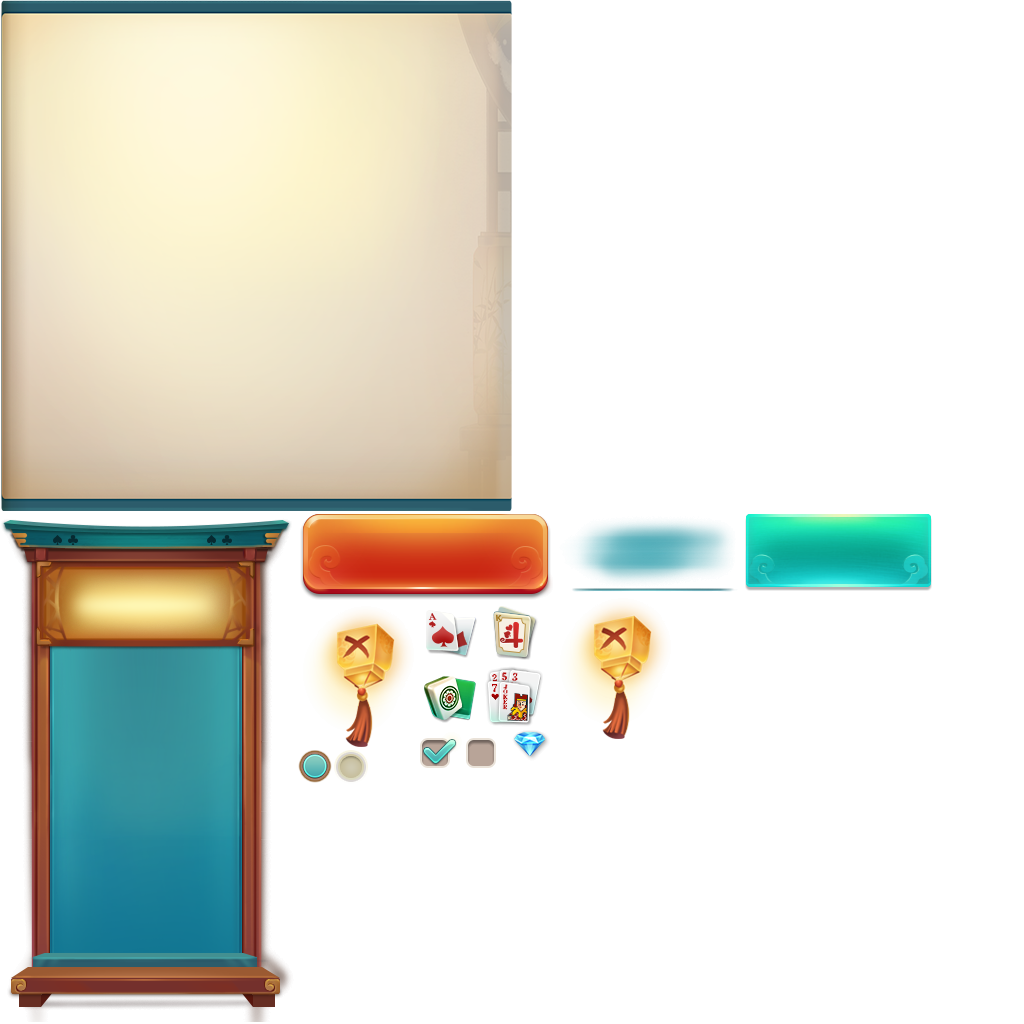
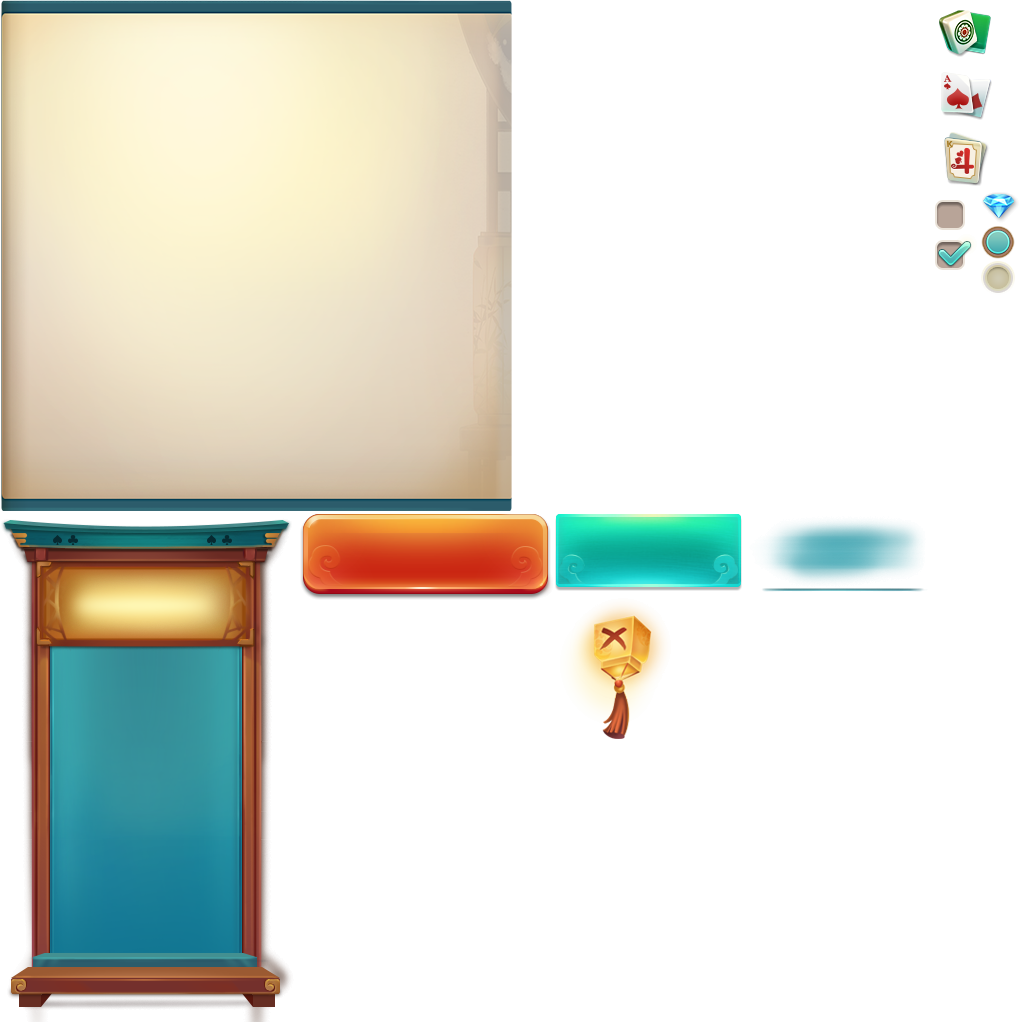
优化drawcall， 从71减少到53

Changed region(s): [[0.5312, 0.5, 0.9375, 0.5938], [0.2812, 0.5938, 0.5312, 0.7812], [0.9062, 0.0, 1.0, 0.2812]]

diff --git a/assets/Script/modules/lobby/views/NewRoomView.ts b/assets/Script/modules/lobby/views/NewRoomView.ts
@@ -24,44 +24,49 @@ export class NewRoomView extends cc.Component {
     public createRoom(ruleJson: string): void {
         Logger.debug("NewRoomView.createRoom, ruleJson:", ruleJson);
         const tk = DataStore.getString("token", "");
-        const url  = `${LEnv.rootURL}${LEnv.createRoom}?&tk=${tk}`;
+        const url = `${LEnv.rootURL}${LEnv.createRoom}?&tk=${tk}`;
         // local jsonString = rapidJson.encode(ruleJson)
         const createRoomReq = new proto.lobby.MsgCreateRoomReq();
         createRoomReq.config = ruleJson;
 
         const body = proto.lobby.MsgCreateRoomReq.encode(createRoomReq).toArrayBuffer();
 
-        HTTP.hPost(this.eventTarget, url, (xhr: XMLHttpRequest, err: string) => {
-            let errMsg = null;
-            if (err !== null) {
-                errMsg = `创建房间错误，错误码:${err}`;
-            } else {
-                errMsg = HTTP.hError(xhr);
-                if (errMsg === null) {
-                    const data = <Uint8Array>xhr.response;
-                    // proto 解码登录结果
-                    const msgCreateRoomRsp = proto.lobby.MsgCreateRoomRsp.decode(data);
-                    if (msgCreateRoomRsp.result === proto.lobby.MsgError.ErrSuccess) {
-                        this.enterGame(msgCreateRoomRsp.roomInfo);
-                    } else if (msgCreateRoomRsp.result === proto.lobby.MsgError.ErrUserInOtherRoom) {
-                        this.reEnterGame(msgCreateRoomRsp.roomInfo);
-                    } else {
-                        // TODO: show error msg
-                        Logger.error("Create room error:, code:", msgCreateRoomRsp.result);
-                        Dialog.showDialog(`创建房间失败，错误码:${msgCreateRoomRsp.result}`);
+        HTTP.hPost(
+            this.eventTarget,
+            url,
+            (xhr: XMLHttpRequest, err: string) => {
+                let errMsg = null;
+                if (err !== null) {
+                    errMsg = `创建房间错误，错误码:${err}`;
+                } else {
+                    errMsg = HTTP.hError(xhr);
+                    if (errMsg === null) {
+                        const data = <Uint8Array>xhr.response;
+                        // proto 解码登录结果
+                        const msgCreateRoomRsp = proto.lobby.MsgCreateRoomRsp.decode(data);
+                        if (msgCreateRoomRsp.result === proto.lobby.MsgError.ErrSuccess) {
+                            this.enterGame(msgCreateRoomRsp.roomInfo);
+                        } else if (msgCreateRoomRsp.result === proto.lobby.MsgError.ErrUserInOtherRoom) {
+                            this.reEnterGame(msgCreateRoomRsp.roomInfo);
+                        } else {
+                            // TODO: show error msg
+                            Logger.error("Create room error:, code:", msgCreateRoomRsp.result);
+                            Dialog.showDialog(`创建房间失败，错误码:${msgCreateRoomRsp.result}`);
 
+                        }
                     }
                 }
-            }
 
-            if (errMsg !== null) {
-                Logger.debug("NewRoomView.createRoom failed:", errMsg);
-                // 显示错误对话框
-                Dialog.showDialog(errMsg, () => {
-                    //
-                });
-            }
-        },         "arraybuffer",  body);
+                if (errMsg !== null) {
+                    Logger.debug("NewRoomView.createRoom failed:", errMsg);
+                    // 显示错误对话框
+                    Dialog.showDialog(errMsg, () => {
+                        //
+                    });
+                }
+            },
+            "arraybuffer",
+            body);
     }
 
     protected onLoad(): void {
@@ -87,6 +92,9 @@ export class NewRoomView extends cc.Component {
         this.runFastRuleView.destroy();
 
         this.eventTarget.emit("destroy");
+
+        this.win.hide();
+        this.win.dispose();
     }
 
     private initView(): void {
@@ -97,13 +105,10 @@ export class NewRoomView extends cc.Component {
 
         this.runFastRuleView = new RunFastRuleView();
         this.runFastRuleView.bindView(this);
-
     }
 
     private onCloseClick(): void {
-        this.win.hide();
-        this.win.dispose();
-
+        this.destroy();
     }
 
     private enterGame(roomInfo: proto.lobby.IRoomInfo): void {

diff --git a/assets/Script/modules/lobby/views/RunFastRuleView.ts b/assets/Script/modules/lobby/views/RunFastRuleView.ts
@@ -1,8 +1,13 @@
 import { DataStore, Logger } from "../lcore/LCoreExports";
-import { NewRoomView } from "./NewRoomView";
+
 // import { proto } from "../proto/protoLobby";
 
 const { ccclass } = cc._decorator;
+
+interface NewRoomViewInterface {
+    createRoom: Function;
+    getView(): fgui.GComponent;
+}
 
 /**
  * LoginView 登录界面
@@ -10,7 +15,7 @@ const { ccclass } = cc._decorator;
 @ccclass
 export class RunFastRuleView {
     private view: fgui.GComponent;
-    private newRoomView: NewRoomView;
+    private newRoomView: NewRoomViewInterface;
 
     // private consumeText: fgui.GObject;
 
@@ -20,7 +25,7 @@ export class RunFastRuleView {
 
     private recordKey: string = "GZRule";
 
-    private rules:  string = `{"roomType":8, "playerNumAcquired":3, "payNum":4, "payType":0, "handNum":4, "modName":"game1"}`;
+    private rules: string = `{"roomType":8, "playerNumAcquired":3, "payNum":4, "payType":0, "handNum":4, "modName":"game1"}`;
     //     ["roomType"] : 8,
     //     ["playerNumAcquired"] : 3,
     //     ["payNum"] : 4,
@@ -33,7 +38,7 @@ export class RunFastRuleView {
     public destroy(): void {
         this.saveRule();
     }
-    public bindView(newRoomView: NewRoomView): void {
+    public bindView(newRoomView: NewRoomViewInterface): void {
         const myNewRoomView = newRoomView.getView();
 
         this.view = myNewRoomView.getChild("gzRule").asCom;
@@ -113,45 +118,45 @@ export class RunFastRuleView {
     }
 
     private getToggleIndex(toggles: fgui.GButton[]): number {
-       const len = toggles.length;
-       for (let i = 0; i < len; i++) {
+        const len = toggles.length;
+        for (let i = 0; i < len; i++) {
             const toggle = toggles[i];
             if (toggle.selected) {
                 return i;
             }
-       }
+        }
 
-       return 0;
+        return 0;
     }
 
     private updateComsumer(): void {
-    //     if priceCfgs ~= nil then
-    //     self.priceCfg = priceCfgs[tostring(rules.roomType)]
-    // end
+        //     if priceCfgs ~= nil then
+        //     self.priceCfg = priceCfgs[tostring(rules.roomType)]
+        // end
 
-    // local payIndex = self:getToggleIndex(self.togglePay)
-    // local payType = configTable["payType"][payIndex]
+        // local payIndex = self:getToggleIndex(self.togglePay)
+        // local payType = configTable["payType"][payIndex]
 
-    // local playCountIndex = self:getToggleIndex(self.toggleRoundCount)
-    // local handNum = configTable["handNum"][playCountIndex]
+        // local playCountIndex = self:getToggleIndex(self.toggleRoundCount)
+        // local handNum = configTable["handNum"][playCountIndex]
 
-    // -- 0 是不配置或者无限用户个数
-    // local playerNumAcquired = 0
+        // -- 0 是不配置或者无限用户个数
+        // local playerNumAcquired = 0
 
-    // local cost = self:getCost(payType, playerNumAcquired, handNum)
+        // local cost = self:getCost(payType, playerNumAcquired, handNum)
 
-    // if cost == nil then
-    //     logger.error(
-    //         "No price cfg found, payType:" .. payType .. ", playerNumAcquired:" .. playerNumAcquired .. ", handNum:"
-    //     )
-    // end
+        // if cost == nil then
+        //     logger.error(
+        //         "No price cfg found, payType:" .. payType .. ", playerNumAcquired:" .. playerNumAcquired .. ", handNum:"
+        //     )
+        // end
 
-    // logger.debug("cost:" .. cost)
-    // self.consumeText.text = cost
+        // logger.debug("cost:" .. cost)
+        // self.consumeText.text = cost
     }
 
     private saveRule(): void {
-        const key:  { [key: number]: boolean | number | string } = {};
+        const key: { [key: number]: boolean | number | string } = {};
         // 局数
         key[1] = this.getToggleIndex(this.toggleRoundCounts);
         // 支付

diff --git a/assets/Script/modules/lobby/fairygui/fairygui.js b/assets/Script/modules/lobby/fairygui/fairygui.js
@@ -2926,7 +2926,49 @@ window.__extends = (this && this.__extends) || (function () {
             this.onConstruct();
         };
         GComponent.prototype.constructExtension = function (buffer) {};
-        GComponent.prototype.onConstruct = function () {};
+        GComponent.prototype.onConstruct = function () {
+            if (this.baseUserData === "textfield_fold") {
+                this.foldTextFields();
+            }
+        };
+        GComponent.prototype.foldTextFields = function () {
+            var textFields = [];
+            this.visit(this, function (v) {
+                var tf = v.asTextField;
+                if (tf) {
+                    textFields.push(tf);
+                }
+            });
+            if (textFields.length > 0) {
+                var tfParent_1 = new cc.Node("tfParent");
+                this.node.addChild(tfParent_1);
+                textFields.forEach(function (tf) {
+                    // if cacheMode set to 2 (CacheMode.CHAR)，then
+                    // all character texture will be render to a global 2048*2048 4M
+                    // texture, thus the drawcall count can be reduced to the same with
+                    // that use BMFont.
+                    // but there are some pitfalls with the global texture, e.g. it only
+                    // been release when sceen unloaded.
+                    // tf._label.cacheMode = 2;
+                    var n = tf.node;
+                    var wp = n.parent.convertToWorldSpaceAR(n.position);
+                    var np = tfParent_1.convertToNodeSpaceAR(wp);
+                    n.removeFromParent();
+                    tfParent_1.addChild(n);
+                    n.setPosition(np);
+                });
+            }
+        };
+        GComponent.prototype.visit = function (o, visitFn) {
+            var _this = this;
+            visitFn(o);
+            var comp = o.asCom;
+            if (comp) {
+                comp._children.forEach(function (child) {
+                    _this.visit(child, visitFn);
+                });
+            }
+        };
         GComponent.prototype.setup_afterAdd = function (buffer, beginPos) {
             _super.prototype.setup_afterAdd.call(this, buffer, beginPos);
             buffer.seek(beginPos, 4);
@@ -4352,10 +4394,18 @@ window.__extends = (this && this.__extends) || (function () {
             else if (this.packageItem.scaleByTile)
                 this._content.type = cc.Sprite.Type.TILED;
             this._content.spriteFrame = this.packageItem.asset;
-            //this._content.setState(this._grayed ? cc.Sprite.State.GRAY : cc.Sprite.State.NORMAL);
+            if (this._grayed) {
+                (this._content).setMaterial(0, cc.Material.getBuiltinMaterial('2d-gray-sprite'));
+            } else {
+                (this._content).setMaterial(0, cc.Material.getBuiltinMaterial('2d-sprite'));
+            }
         };
         GImage.prototype.handleGrayedChanged = function () {
-            this._content.setState(this._grayed ? cc.Sprite.State.GRAY : cc.Sprite.State.NORMAL);
+            if (this._grayed) {
+                (this._content).setMaterial(0, cc.Material.getBuiltinMaterial('2d-gray-sprite'));
+            } else {
+                (this._content).setMaterial(0, cc.Material.getBuiltinMaterial('2d-sprite'));
+            }
         };
         GImage.prototype.setup_beforeAdd = function (buffer, beginPos) {
             _super.prototype.setup_beforeAdd.call(this, buffer, beginPos);
